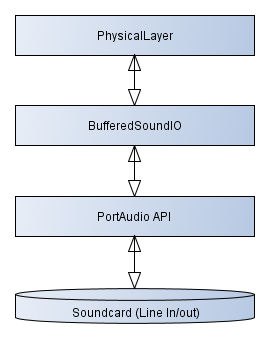
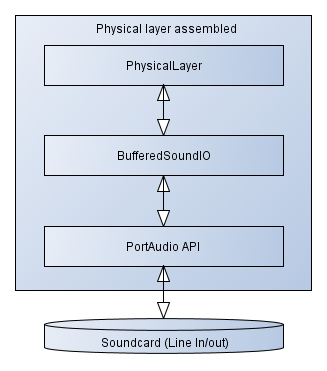
Lange ribs committed.

diff --git a/content/physical/physical_layer.tex b/content/physical/physical_layer.tex
@@ -1,4 +1,4 @@
-\section{Framework analysis}\label{sec:physical_analysis} 
+\section{Framework Composition}\label{sec:physical_analysis} 
 In data communication and networking theory the physical layer is the lowermost
 layer in the OSI model\cite{KOM}. The task of the physical layer is getting a physical signal 
 translated into data which then can be delivered as a frame to the above lying layer 
@@ -14,10 +14,10 @@ This project requires the use of DTMF tones as information carrier, and furtherm
 required that transmission are broadcast through the air. These requirements decides some
 of the properties of the physical layer, the first one is the media which is the air as 
 sound waves are used for communication. The type of signal is DTMF tones and the communication can
-only take place as half-duplex as sending and receiving is possible as the communication system works
+only take place as half-duplex as sending and receiving is impossible as the communication system works
 as a broadcast system.
 
-	\subsection{DTMF as information carrier}
+	\subsection{DTMF as information Carrier}
 	DTMF is an abbreviation for Dual Tone Multiple Frequency. It is a system of tones that are used by
 	telephones when dialing a number. The system is an arrangement of four low tones and four high tones,
 	it is arranged in a four-by-four matrix which gives the system sixteen combinations.
@@ -48,10 +48,10 @@ as a broadcast system.
 	of information and it is not satisfying exchanging information of the size of four bits alone,
 	cause this would make the system inefficient. The system need to be able to transmit a sequence
 	of tones matching a given bit pattern. The number of tones played each second will determine the
-	bitrate of the communication. The bitrate will of course be dependent on how fast the sampling and
-	recognition of tones can be handled at the receiving end.
+	bitrate of the communication. As each tone hold four bits the bitrate can be written as below:
+	\begin{center}\begin{equation}bitrate = \frac{numberOfTones \cdot numberOfBitsPerTone}{time}\end{equation}\end{center}
 	
-	\subsection{Port Audio Interface}
+	\subsection{Utilisation of PortAudio Interface}
 	It was decided in the initial phase of the project to use Port Audio (http://www.portaudio.com/)
 	as the interface between the developed API\footnote{Application Programming Interface} and the 
 	soundcard in a computer. Several points was taken into account for this decision, it has to be easy to use,
@@ -62,7 +62,35 @@ as a broadcast system.
 	computer. PortAudio allow for developers to push raw audio data to the soundcards outgoing buffer and
 	receiving raw audio data from the soundcards ingoing buffer. Thus, PortAudio is good foundation for the
 	implementation of the physical layer as tone detecting, and tone generating algorithms can be laid on top
-	of PortAudio, as basic mathematics which apply to digital signal processing.
+	of PortAudio, as basic mathematics which apply to digital signal processing. The PortAudio API provides the
+	user with a callback function which implicitly exposes the soundcard buffers for input and output. PortAudio
+	futhermore gives the possibility for using more sound streams which then provide more callback functions
+	which means that input and output streams can run asynchronously. The way PortAudio handles these streams
+	will be explained in greater detail later.
+	
+	PortAudio will be implemented as a part of the physical layer to create the interface between the developed
+	protocol stack and the sound card. An example of this is shown below:
+	
+	\begin{figure}[htb]
+		\begin{center}
+		\includegraphics[scale=0.6,trim=0 0 0 0]{physical_4layers.png}%trim=l b r t
+		\caption{This is a model of the steps needed to implement the physical layer. The PortAudio API is delivered
+		by PortAudio. BufferedSoundIO is handling the math for generating sound and detecting sound, and also the
+		PortAudio API. The physical layer includes the encoding scheme and functionality exposed to the rest of the
+		developed protocol stack.}
+		\label{fig:physical_4layers}
+		\end{center}
+	\end{figure}
+	
+	The PhysicalLayer and BufferedSoundIO will be implemented as two separated classes which will be bounded together
+	and exposed as the physical layer to the rest of the protocol stack. The idea for implementing the physical layer
+	as two seperate classes on top of PortAudio API, is to separate functionality between the physical layers internal
+	layers. BufferedSoundIO class will be implementing the math needed to generate and detect tones while the physical
+	layer class will implement the encoding schemes for transforming frames from the data link layer into a sequence of
+	numbers which then can be pushed to BufferedSoundIO which then processes this sequence to generate a sequence of DTMF
+	tones at the sending site. In the receiving site the receiving process will look a lot like the process for sending a
+	frame, the BufferedSoundIO class will detect sequences of DTMF tones which will be transformed into a sequence of
+	numbers. This sequence of numbers will then be sent to the PhysicalLayer and then be translated into a frame.
 	
 	\subsection{Goertzel Algorithm}
 	To be able to detect if tones have been transmitted some algorithm for detection of tones have to be implemented.
@@ -139,7 +167,7 @@ as a broadcast system.
 	This will ease the assembly of a frame because the software have an indication of the exact start of a frame and the exact ending
 	of it as well.
 	
-	Another problem with synchronisation arise duo to the mapping between 4 bit combinations and DTMF tones. This is because if there is a
+	Another problem with synchronisation arise due to the mapping between 4 bit combinations and DTMF tones. This is because if there is a
 	need for sending, 1111 and 1111 right after each other the system will not be able to identify the two tones corresponding to the
 	given bit patterns from each other. It would therefore look like only one tone was transmitted instead of two. This actually apply
 	to each combination which are followed up by its own combination of bits. Some kind of stuffing is needed to separate each tone
@@ -175,11 +203,103 @@ as a broadcast system.
 			4 & 350 Hz & 16 & 17 & 18 & 19 \\
 			\end{tabular}
 		\end{center}
-		\caption{This new mapping system create four new DTMF combinations, these four new DTMF tones can be used as control tones and then
-		the original map as data tones. This makes it possible to identify the three properties which define the data flow in the stream.
-		The index notation will be described in section \ref{sub:encoding_scheme} explains the encoding scheme.}
+		\caption{This new mapping system create four new combinations of DTMF tones. The index notation can be used for
+		implementation purpose.}
 		\label{tab:newDTMF_mapping}
 	\end{table}
-		
+	
+	In table \ref{tab:newDTMF_mapping} a new mapping of DTMF tones is shown. This new mapping system contain four new combinations of tones
+	which can be used as control signals. The combination $1209 Hz$ and $350 Hz$ gives the number 16, this number could be used as a code for
+	\textit{here does the frame start}, 17 for \textit{here does the frame end}, and 18 for \textit{two equal bit patterns are presented after
+	each other}. Code 19 can be leaved as a reserved control code. 
+	
+	\begin{table}[htb]
+			\begin{center}
+				\begin{tabular}{|c|c|}
+				\hline
+				\textbf{Code} & \textbf{Representation}\\
+				\hline
+				16 & Start of a frame \\
+				\hline
+				17 & End of a frame \\
+				\hline
+				18 & Double tone \\
+				\hline
+				19 & \textit{Reserved} \\
+				\hline
+				\end{tabular}
+			\end{center}
+			\caption{Show a table of control codes(tones).}
+			\label{tab:physical_control_tones}
+	\end{table}
+	
+	This method for synchronisation is also well connected to the rest of the
+	data transmission at the physical layer as the implementation is based on a tone detection system, so by adding an extra tone a lot of new
+	possibilities are offered, in exchange of complicated timing schemes or sharing the synchronisation functionality between two layers.
+	The detection system can now by identifying a shift in tone frequencies detect a new tone was sent and thus the system is able to
+	register the tone.
+	
 	\subsection{Encoding scheme}\label{sub:encoding_scheme}
-	Jubii
+	The encoding scheme is handling the translation from frames into DTMF tones and visa versa. The encoding will be a
+	two step process as frames are translated into a sequence of numbers which then are translated into a sequence of DTMF
+	tones.
+	
+	A frame can be considered as a stream of bits, this stream is the actual data the frame consist of. This stream can be divided
+	into 4 bit sequences where each number represent the value from zero to fifteen both included. These sixteen combinations
+	match up with table \ref{tab:DTMF_mapping} and the four upper rows in table \ref{tab:newDTMF_mapping}. After dividing the 
+	frame into nibbles\footnote{A 4 bit size} and each nibble is put into a list, this list now is a sequence of numbers. Each
+	number is assigned to a combination of two tones according to table \ref{tab:newDTMF_mapping}. These frequencies can now be
+	calculated based upon the number representing each nibble.
+	
+	Calculate low frequency:
+	\begin{center}\begin{equation}f_{l} = \frac{number}{4},\end{equation}\end{center}
+	where $f_{l}$ is a whole number, meaning if the outcome is not whole, digits after the comma are discarded. Number
+	represent a number from the sequence numbers representing the data stream of a frame.
+	
+	Calculate high frequency:
+	\begin{center}\begin{equation}f_{h} = number\%4,\end{equation}\end{center}
+	where $f_{h}$ is a whole number from the modulus operator, this operator is used here to return the rest of the division.
+	
+	If low and high frequencies are arranged in two arrays as they are listed, one for low tones and one for the high tones,
+	then $f_{l}$ and $f_{h}$ represent an index of a tone in the frequency array concerned.
+	
+	The generation of numbers from identified frequencies is also an easy calculation to carry out, as this would look like this:
+	\begin{center}\begin{equation}number = f_{l} \cdot 4 + f_{h},\end{equation}\end{center}
+	This can be confirmed by table \ref{tab:newDTMF_mapping}.
+	
+	The latter calculations defines the encoding scheme between DTMF tones and numbers, which is one of the steps needed for
+	the full encoding. The other step is to get a frame and translate it into a number sequence and likewise translating a
+	sequence of numbers into a frame. At the sending site frames are split into nibbles and stuffed with control tones at relevant
+	spots.
+	
+	An Example:
+	
+	\begin{table}[htb]
+		\begin{center}
+			\begin{tabular}{|c|c|c|c|c|c|}
+			\hline
+			12 & 1 & 1 & 15 & 10 & 11 \\
+			\hline
+			\end{tabular}
+		\end{center}
+		\caption{Represent a frame and each number is a nibble of that frame.}
+		\label{tab:physical_frame}
+	\end{table}
+	
+	The example above would then have to be stuffed as below according to table \ref{tab:physical_control_tones}:
+	
+	\begin{table}[htb]
+		\begin{center}
+			\begin{tabular}{|c|c|c|c|c|c|c|c|c|}
+			\hline
+			16 & 12 & 1 & 18 & 1 & 15 & 10 & 11 & 17 \\
+			\hline
+			\end{tabular}
+		\end{center}
+		\caption{Represent a frame as the number sequence after stuffing it.}
+		\label{tab:physical_stuffed_frame}
+	\end{table}
+	
+	As seen in table \ref{tab:physical_stuffed_frame} the frame itself is wrapped in control codes telling the software where
+	the frame start and end. In between nibbles of the same bit combination a control code is added to indicate that two equal
+	tones are going to be played right after another as this frame is transmitted.

diff --git a/content/physical/intro.tex b/content/physical/intro.tex
@@ -1,12 +1,17 @@
-\chapter{Physical layer}
-This chapter will contain an analysis of how it is possible to let DTMF tones
-act as an information carrier. This analysis will be based on the basics of
-networking and digital signal processing theory which means that the physical
-aspects will not be taking into considerations and thus not be in the scope of
-this document. The analysis will lead to several inferences which will create
-the foundation for implementing the physical layer as software.
+\chapter{Physical Layer}
+This chapter will be split into two parts and a soliloquy. The first part will
+explain the main considerations that have been made during the design phase of
+a physical layer which allow DTMF tones to act as information carriers.
+The design is based on the basics of networking and digital signal processing
+theory which means that the physical aspects will not be taking into considerations
+and thus not be in the scope of this document. The design will lead to several
+inferences which will create the foundation for implementing the physical layer as software.
 
-After the analysis the implementation will be explained in greater detail.
+The second part will explain the implementation in greater detail regarding the physical layer
+interface, which functionality is exposed to the data link layer 
+
+The soliloquy will contain a brief discussion of the thoughts made after the implementation
+was done.
 
 % Nomenclatur
 \nomenclature{DTMF}{Dual-tone multi-frequency}

diff --git a/main.tex b/main.tex
@@ -39,6 +39,8 @@
 %
 \input{content/physical/intro.tex}
 \input{content/physical/physical_layer.tex}
+\input{content/physical/physical_layer_implementation.tex}
+\input{content/physical/soliloquy.tex}
 %
 \input{content/datalink/intro.tex}
 \input{content/datalink/dll_overview.tex}
